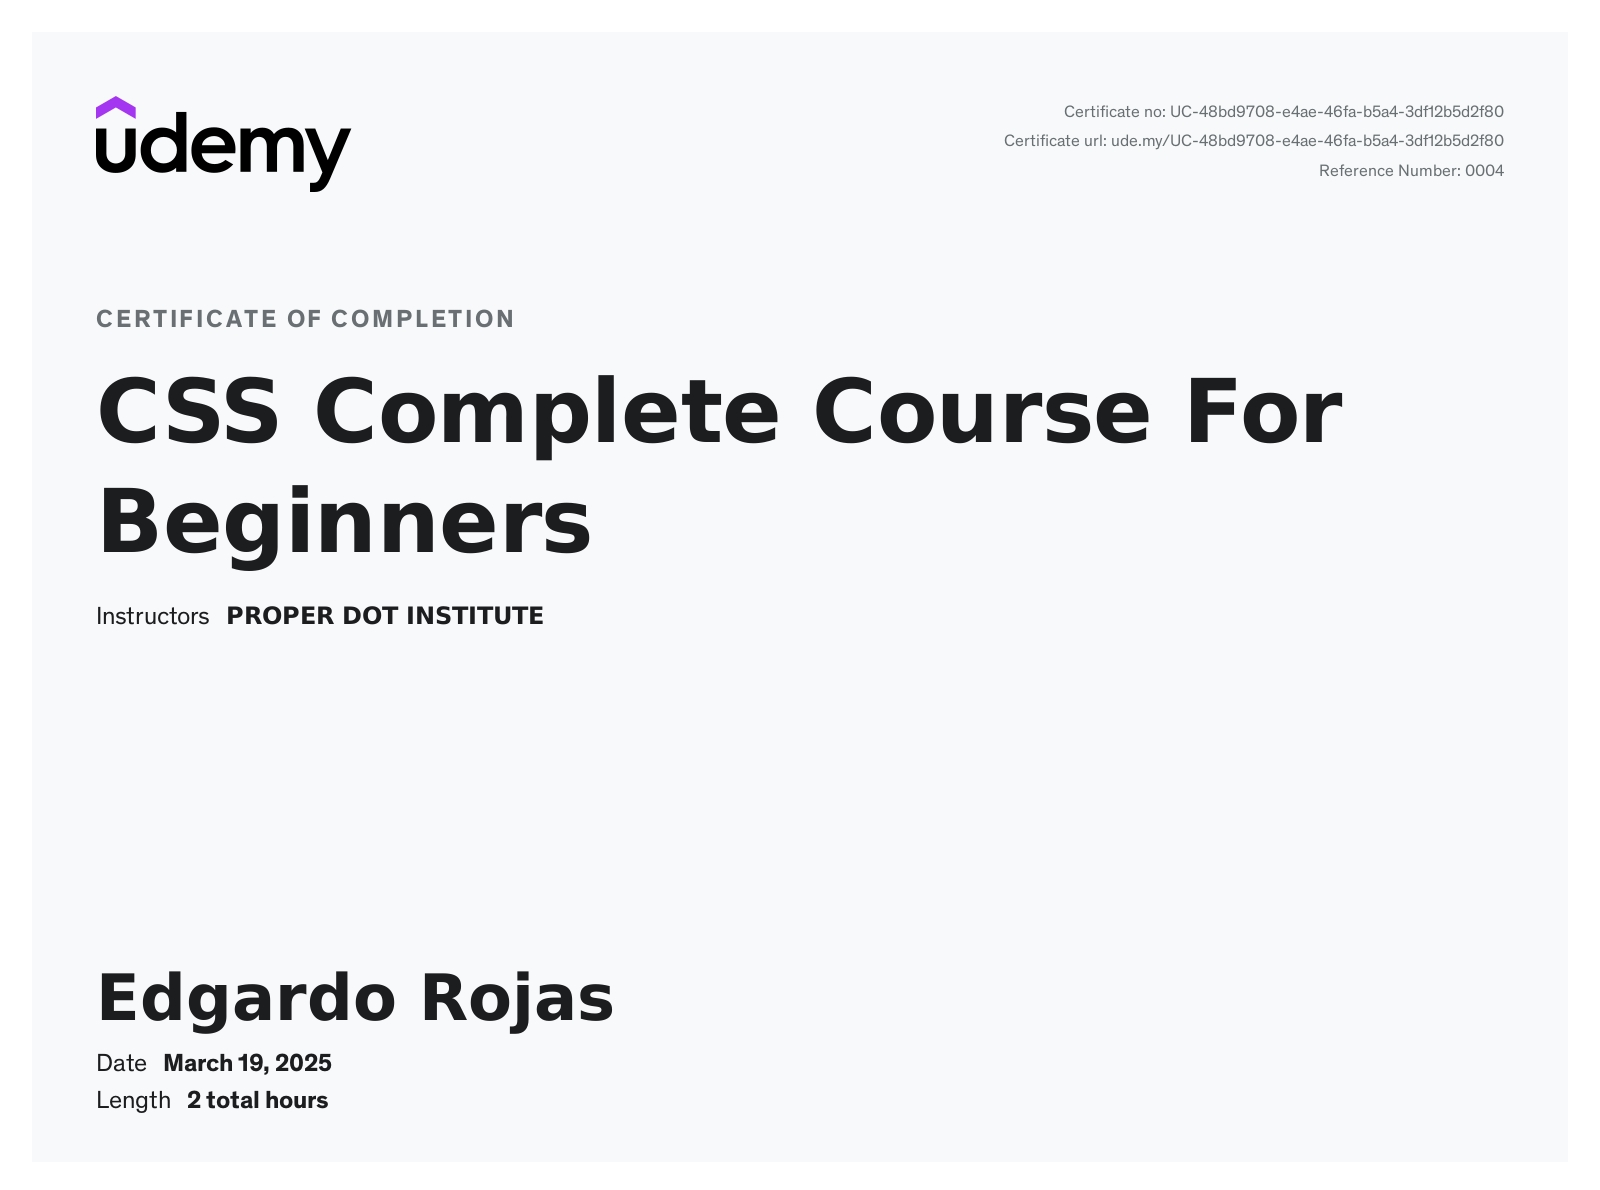
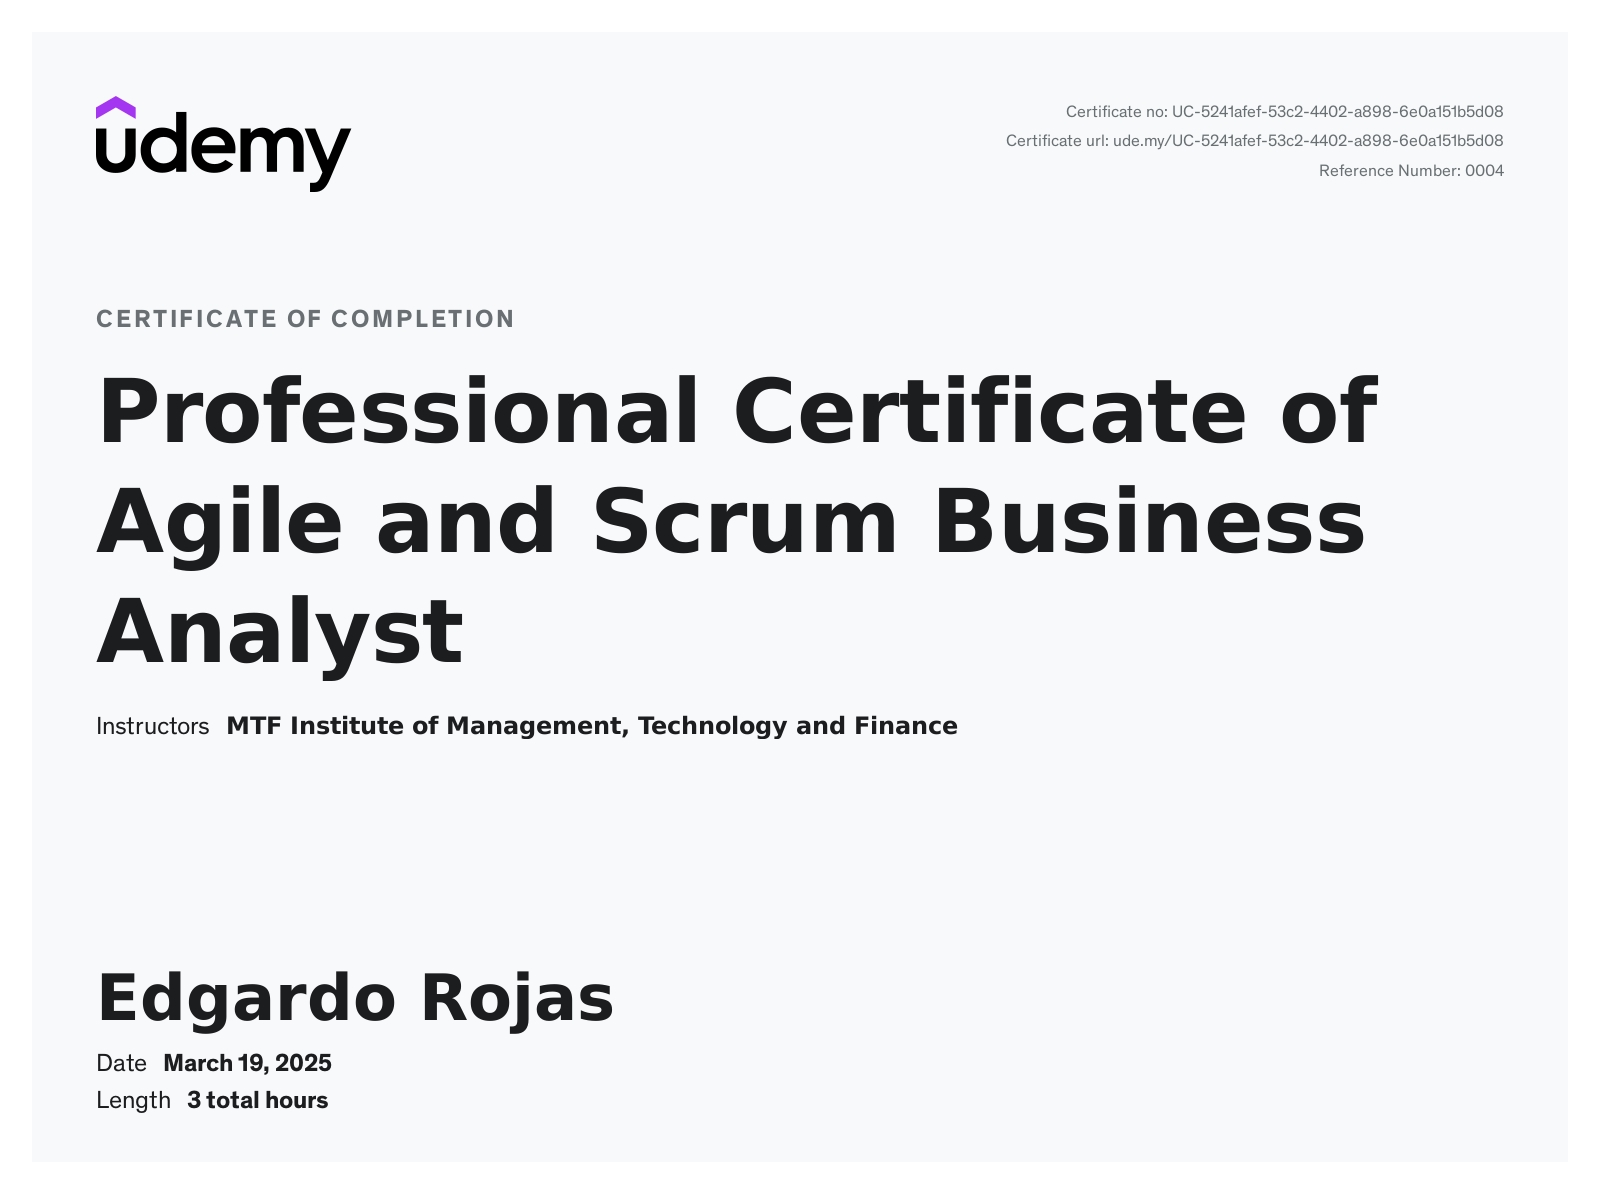
cutie yani

Changed region(s): [[0.0625, 0.3109, 0.875, 0.6218], [0.625, 0.0622, 0.9375, 0.1244]]

diff --git a/components/Certificates.tsx b/components/Certificates.tsx
@@ -2,55 +2,55 @@
 
 import React, { useState } from "react"
 import Image from "next/image"
-import certificate1 from "@/assets/cert1.jpg" 
-import certificate2 from "@/assets/cert2.jpg" 
-import certificate3 from "@/assets/cert3.png" 
-import certificate4 from "@/assets/cert4.png" 
-import certificate5 from "@/assets/cert5.png" 
+import certificate1 from "@/assets/cert1.jpg"
+import certificate2 from "@/assets/cert2.jpg"
+import certificate3 from "@/assets/cert3.png"
+import certificate4 from "@/assets/cert4.png"
+import certificate5 from "@/assets/cert5.png"
 import { motion, useMotionValue, useMotionTemplate } from "framer-motion"
 
 const certificates = [
     {
         id: 1,
-        title: "Web Development",
-        issuer: "FreeCodeCamp",
-        date: "2024",
-        category: "Development",
-        description: "Comprehensive web development certification covering modern frontend technologies.",
+        title: "Capstone Exhibit Champion",
+        issuer: "Holy Cross of Davao College",
+        date: "2025",
+        category: "Mobile Application",
+        description: "A distinguished certificate recognizing exceptional leadership and achievement in spearheading a winning event.",
         image: certificate1
     },
     {
         id: 2,
-        title: "Web Development",
-        issuer: "FreeCodeCamp",
-        date: "2024",
-        category: "Development",
-        description: "Comprehensive web development certification covering modern frontend technologies.",
+        title: "Joint Research Conference",
+        issuer: "Center for Research and Publication",
+        date: "2025",
+        category: "Data Innovation",
+        description: "A prestigious Certificate of Recognition awarded for outstanding achievement as the Best Research Presenter in Data Innovation at the Joint Research Conference.",
         image: certificate2
     },
     {
         id: 3,
-        title: "Web Development",
-        issuer: "FreeCodeCamp",
-        date: "2024",
-        category: "Development",
-        description: "Comprehensive web development certification covering modern frontend technologies.",
+        title: "CSS Course",
+        issuer: "Proper Dot Institute",
+        date: "2025",
+        category: "Programming",
+        description: "A Certificate of Completion from Udemy, recognizing mastery of the CSS Complete Course for Beginners.",
         image: certificate3
     },{
         id: 4,
-        title: "Web Development",
-        issuer: "FreeCodeCamp",
-        date: "2024",
-        category: "Development",
-        description: "Comprehensive web development certification covering modern frontend technologies.",
+        title: "Java and Ctt Course",
+        issuer: "Crunch Coding",
+        date: "2025",
+        category: "Programming",
+        description: "A Certificate of Completion from Udemy, validating the successful completion of the comprehensive Java and C++ course for beginners.",
         image: certificate4
     },{
         id: 5,
-        title: "Web Development",
-        issuer: "FreeCodeCamp",
-        date: "2024",
-        category: "Development",
-        description: "Comprehensive web development certification covering modern frontend technologies.",
+        title: "Agile and Scrum Business Course",
+        issuer: "MTF Institute of Management, Technology and Finance",
+        date: "2025",
+        category: "Scrum and Agile Method",
+        description: "A Professional Certificate of Completion from Udemy, recognizing expertise in Agile and Scrum methodologies for Business Analysts.",
         image: certificate5
     },
 
@@ -68,18 +68,18 @@ export const Certificates = () => {
         <motion.section
             style={{ backgroundImage }}
             id="certificates"
-            className="py-32 text-white"
+            className="py-32 text-white overflow-y-hidden" // Added overflow-y-hidden
         >
             <div className="max-w-[1200px] mx-auto px-4">
                 <h2 className="text-6xl font-bold mb-10">My <span className="text-purple-400">Certificates</span></h2>
-                
-                <div className="flex flex-row gap-4 overflow-x-auto pb-4">
+
+                <div className="flex flex-row gap-4 overflow-x-auto md:overflow-x-hidden pb-4">
                     {certificates.map((cert) => (
                         <motion.div
                             key={cert.id}
                             onClick={() => setSelectedCert(cert)}
-                            className={`min-w-[220px] max-w-[220px] cursor-pointer rounded-xl p-3 backdrop-blur-sm 
-                                ${selectedCert.id === cert.id ? 'bg-white/10' : 'bg-white/5'} 
+                            className={`min-w-[220px] max-w-[220px] cursor-pointer rounded-xl p-3 backdrop-blur-sm
+                                ${selectedCert.id === cert.id ? 'bg-white/10' : 'bg-white/5'}
                                 hover:bg-white/10 transition-all duration-300`}
                             initial={{ opacity: 0, y: 20 }}
                             animate={{ opacity: 1, y: 0 }}
@@ -93,15 +93,15 @@ export const Certificates = () => {
                                     className="object-cover transition-transform duration-300 hover:scale-110"
                                 />
                             </div>
-                            
+
                             <div className="space-y-1">
                                 <p className="text-purple-400 text-xs">{cert.date}</p>
                                 <h3 className="text-base font-semibold">{cert.title}</h3>
                                 <p className="text-gray-400 text-xs">{cert.issuer}</p>
-                                
+
                                 <motion.div
                                     initial={{ opacity: 0, height: 0 }}
-                                    animate={{ 
+                                    animate={{
                                         opacity: selectedCert.id === cert.id ? 1 : 0,
                                         height: selectedCert.id === cert.id ? "auto" : 0
                                     }}

diff --git a/components/SubPortfolio.tsx b/components/SubPortfolio.tsx
@@ -48,27 +48,29 @@ export const SubPortfolio = () => {
                 backgroundImage
             }}
             id="sub-portfolio"
-            className="py-32 text-white min-h-screen" // Added min-h-screen for visibility
+            className="py-20 md:py-32 text-white"
         >
-            <div className="max-w-7xl mx-auto px-4 grid lg:grid-cols-2 gap-12">
+            <div className="max-w-7xl mx-auto px-4 grid grid-cols-1 lg:grid-cols-2 gap-12">
                 <div>
-                    <h2 className="text-6xl font-bold mb-10"><span className="text-purple-400">Achievements</span></h2>
-                    {projects.map((project) =>(
+                    <h2 className="text-4xl md:text-6xl font-bold mb-8 md:mb-10">
+                        <span className="text-purple-400">Achievements</span>
+                    </h2>
+                    {projects.map((project) => (
                         <div
                             key={project.id}
                             onClick={() => setSelectedProject(project)}
-                            className="cursor-pointer mb-8 group"
+                            className="cursor-pointer mb-6 md:mb-8 group"
                         >
-                            <p className="text-gray-400 text lg mb-2">{project.year}</p>
-                            <h3 className={`text-3xl font-semibold group-hover:text-purple-400 transition-colors
+                            <p className="text-gray-400 text-base md:text-lg mb-1 md:mb-2">{project.year}</p>
+                            <h3 className={`text-2xl md:text-3xl font-semibold group-hover:text-purple-400 transition-colors
                                 ${selectedProject.id === project.id ? 'text-gray-200' : ''} duration-300`}>
                                 {project.title}
                             </h3>
                             {selectedProject.id === project.id && (
-                                <div className="border-b-2 border-purple-200 my-4"></div>
+                                <div className="border-b-2 border-purple-200 my-2 md:my-4"></div>
                             )}
                             {selectedProject.id === project.id && (
-                                <p className="text-gray-400 transition-all duration-500 ease-in-out">
+                                <p className="text-gray-400 transition-all duration-500 ease-in-out text-sm md:text-base">
                                     {project.description}
                                 </p>
                             )}
@@ -76,13 +78,16 @@ export const SubPortfolio = () => {
                     ))}
                 </div>
 
-                <Image
-                    src={selectedProject.image.src}
-                    alt={selectedProject.title}
-                    className="rounded-xl shadow-lg transition-opacity duration-500 ease-in-out"
-                    width={800}
-                    height={450}
-                />
+                <div className="flex items-center justify-center">
+                    <Image
+                        src={selectedProject.image.src}
+                        alt={selectedProject.title}
+                        className="rounded-xl shadow-lg transition-opacity duration-500 ease-in-out w-full max-w-[400px] md:max-w-[600px] lg:max-w-[800px] h-auto"
+                        width={800}
+                        height={450}
+                        priority
+                    />
+                </div>
             </div>
         </motion.section>
     )

diff --git a/components/LogoAnimation.tsx b/components/LogoAnimation.tsx
@@ -40,6 +40,60 @@ const Images = [
     { src: Jairosoft, alt: "jairo" },
     { src: Figma, alt: "fig" },
     { src: Bubble, alt: "bub" },
+    { src: Photoshop, alt: "ps" },
+    { src: Lightroom, alt: "lr" },
+    { src: Premiere, alt: "pr" },
+    { src: vscode, alt: "vs" },
+    { src: hcdc, alt: "hcdc" },
+    { src: JIT, alt: "jit" },
+    { src: Jairosoft, alt: "jairo" },
+    { src: Figma, alt: "fig" },
+    { src: Bubble, alt: "bub" },
+    { src: Photoshop, alt: "ps" },
+    { src: Lightroom, alt: "lr" },
+    { src: Premiere, alt: "pr" },
+    { src: vscode, alt: "vs" },
+    { src: hcdc, alt: "hcdc" },
+    { src: JIT, alt: "jit" },
+    { src: Jairosoft, alt: "jairo" },
+    { src: Figma, alt: "fig" },
+    { src: Bubble, alt: "bub" },
+    { src: Photoshop, alt: "ps" },
+    { src: Lightroom, alt: "lr" },
+    { src: Premiere, alt: "pr" },
+    { src: vscode, alt: "vs" },
+    { src: hcdc, alt: "hcdc" },
+    { src: JIT, alt: "jit" },
+    { src: Jairosoft, alt: "jairo" },
+    { src: Figma, alt: "fig" },
+    { src: Bubble, alt: "bub" },
+    { src: Photoshop, alt: "ps" },
+    { src: Lightroom, alt: "lr" },
+    { src: Premiere, alt: "pr" },
+    { src: vscode, alt: "vs" },
+    { src: hcdc, alt: "hcdc" },
+    { src: JIT, alt: "jit" },
+    { src: Jairosoft, alt: "jairo" },
+    { src: Figma, alt: "fig" },
+    { src: Bubble, alt: "bub" },
+    { src: Photoshop, alt: "ps" },
+    { src: Lightroom, alt: "lr" },
+    { src: Premiere, alt: "pr" },
+    { src: vscode, alt: "vs" },
+    { src: hcdc, alt: "hcdc" },
+    { src: JIT, alt: "jit" },
+    { src: Jairosoft, alt: "jairo" },
+    { src: Figma, alt: "fig" },
+    { src: Bubble, alt: "bub" },
+    { src: Photoshop, alt: "ps" },
+    { src: Lightroom, alt: "lr" },
+    { src: Premiere, alt: "pr" },
+    { src: vscode, alt: "vs" },
+    { src: hcdc, alt: "hcdc" },
+    { src: JIT, alt: "jit" },
+    { src: Jairosoft, alt: "jairo" },
+    { src: Figma, alt: "fig" },
+    { src: Bubble, alt: "bub" },
 ]
 
 export const LogoAnimation = () => {

diff --git a/components/Hero.tsx b/components/Hero.tsx
@@ -11,6 +11,8 @@ import {
 import Image from 'next/image';
 import profilepic from "../assets/profilepic.png"
 import object1 from "../assets/obj1.png"
+import object2 from "../assets/vscode.png"
+import object3 from "../assets/Figma.png"
 
 
 const COLORS_TOP = ["#13FFAA", "#1E67C6", "#CE84CF", "#DD335C"]
@@ -53,24 +55,7 @@ export const Hero = () => {
           width={250}
         />
           <div className="flex bg-white/10 shadow-xl p-3 rounded-3xl justify-center items-center space-x-2 mb-4">
-          <Image 
-            src={object1}
-            alt="object"
-            width={30}
-            className="rounded-2xl mx-auto"
-          />
-          <Image 
-            src={object1}
-            alt="object"
-            width={30}
-            className="rounded-2xl mx-auto"
-          />
-          <Image 
-            src={object1}
-            alt="object"
-            width={30}
-            className="rounded-2xl mx-auto"
-          />
+          
                 <p className="font-medium">Edgardo, Jr. B. Rojas</p>
             </div>
 
